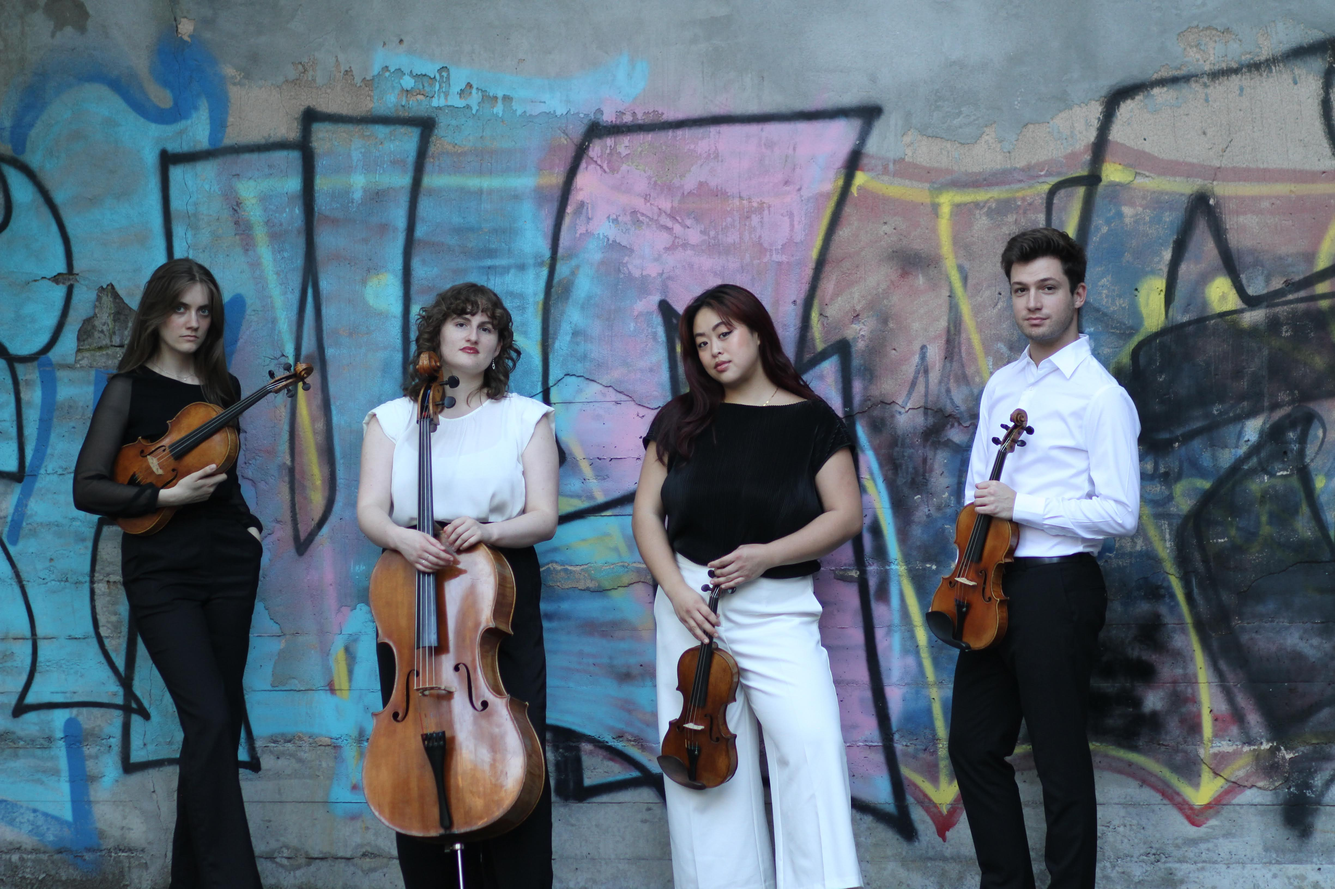
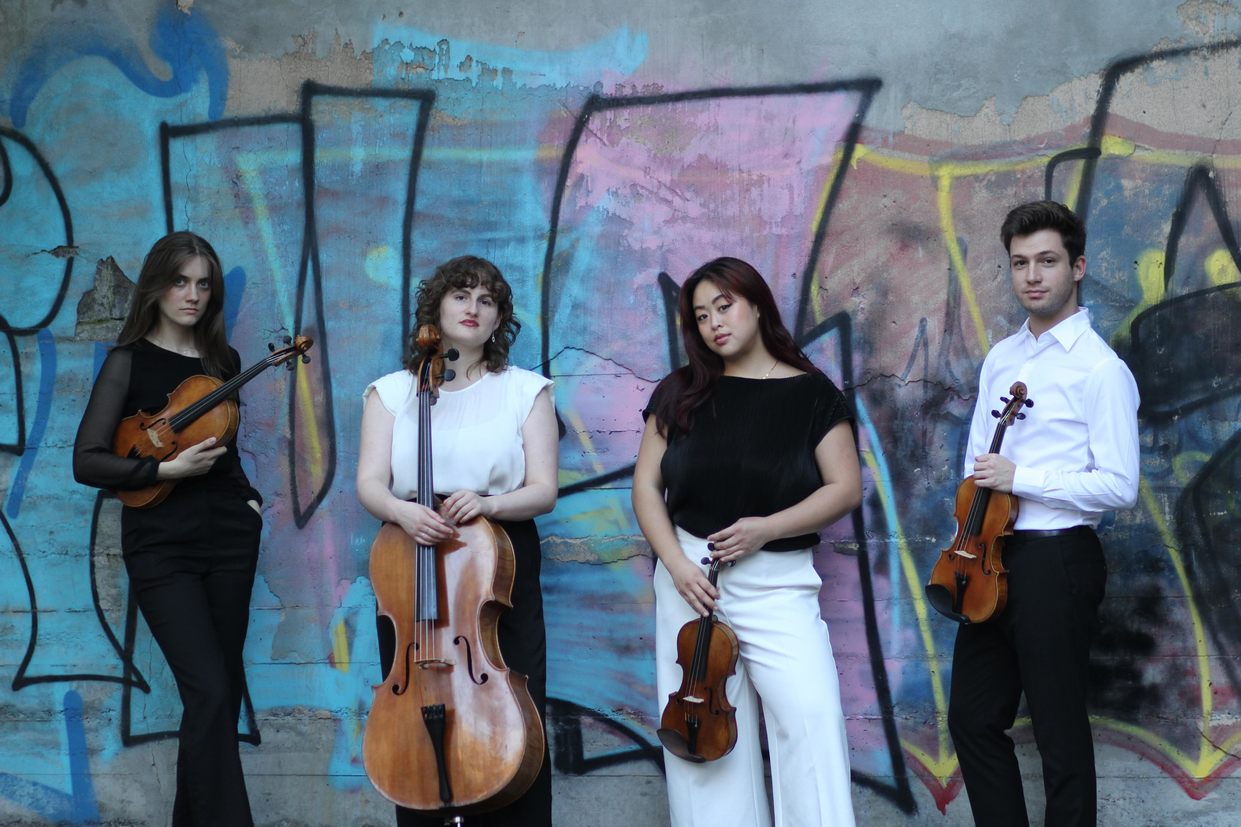
try again cropping the cover

diff --git a/build.py b/build.py
@@ -69,6 +69,12 @@ def xfrm_traverse(url_path, dom_node):
 			dom_node.parentNode.removeChild(dom_node)
 		elif dom_node.tagName == "img" and "377e36_949307df43a148dba4346538db3089d2~mv2.jpg" in dom_node.getAttribute("src"):
 			dom_node.setAttribute("src", "IMG_2944_crop.jpeg")
+
+			# You also have to find, in the minified inline javascript:
+			#     se=(e,
+			# and add at the beginning of that function definition:
+			#     if (e.indexOf("377e36_949307df43a148dba4346538db3089d2~mv2.jpg")>-1) { return "IMG_2944_crop.jpeg"; }
+
 #		elif dom_node.getAttribute("data-src"):
 #			dom_node.setAttribute("data-src", "IMG_2944_crop.jpeg")
 #		elif dom_node.getAttribute("class") == "cM88eO":
